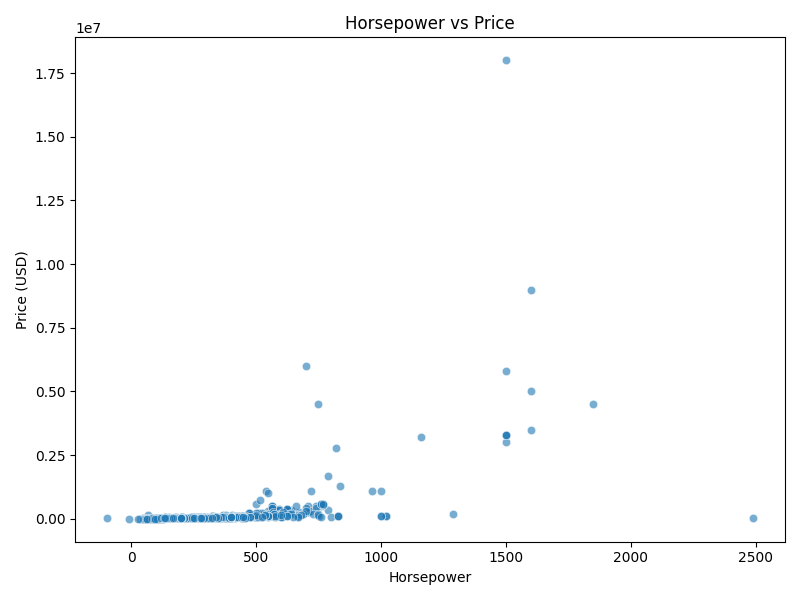
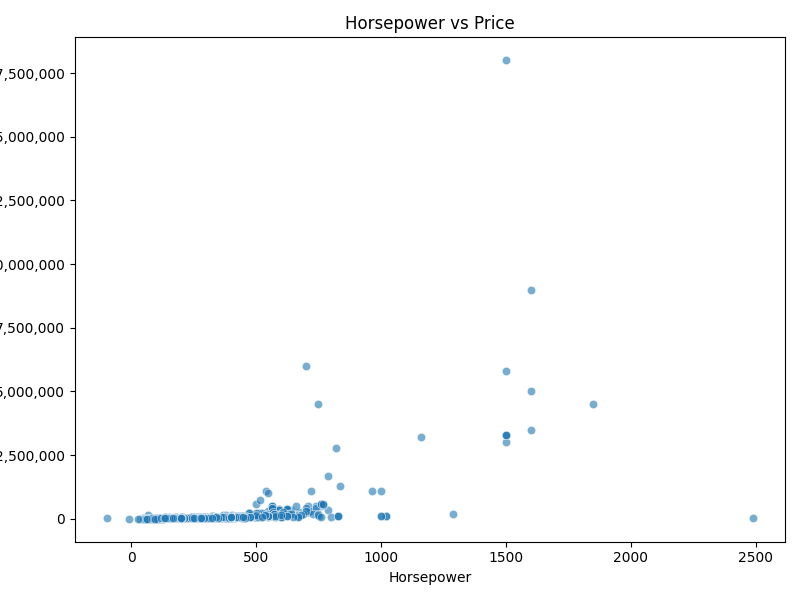
Format EDA axes, use log10 histogram and regenerate figures

diff --git a/src/personal_project/eda_cars.py b/src/personal_project/eda_cars.py
@@ -16,6 +16,7 @@ import numpy as np
 import pandas as pd
 import matplotlib.pyplot as plt
 import seaborn as sns
+from matplotlib.ticker import FuncFormatter
 
 
 DATA_PATH = Path(__file__).resolve().parents[2] / "data" / "Cars Datasets 2025.csv"
@@ -77,12 +78,43 @@ def plot_price_hist(df: pd.DataFrame):
     plt.close()
 
 
+def _format_axis_currency(ax, axis='x', divide=1):
+    """Format axis ticks with thousands separator.
+
+    Parameters:
+    - ax: matplotlib Axes
+    - axis: 'x' or 'y'
+    - divide: divide value for scaling (e.g., 1000 to show thousands)
+    """
+    def _fmt(x, pos):
+        try:
+            val = x / divide
+            if abs(val) >= 1000:
+                # keep integer formatting for large numbers
+                return f"{int(val):,}"
+            # otherwise show without decimals if whole, else 1 decimal
+            if float(val).is_integer():
+                return f"{int(val):,}"
+            return f"{val:,.1f}"
+        except Exception:
+            return f"{x}"
+
+    fmt = FuncFormatter(_fmt)
+    if axis == 'x':
+        ax.xaxis.set_major_formatter(fmt)
+    else:
+        ax.yaxis.set_major_formatter(fmt)
+
+
 def plot_log_price_hist(df: pd.DataFrame):
     plt.figure(figsize=(8, 5))
-    log_price = np.log(df['price'].dropna())
+    # use log10 for easier interpretation and drop non-positive prices
+    price = df['price'].dropna()
+    price = price[price > 0]
+    log_price = np.log10(price)
     sns.histplot(log_price, bins=50)
-    plt.title('Log(Price) distribution')
-    plt.xlabel('log(Price)')
+    plt.title('Log10(Price) distribution')
+    plt.xlabel('log10(Price)')
     plt.tight_layout()
     out = OUT_DIR / 'log_price_hist.png'
     plt.savefig(out)
@@ -97,6 +129,9 @@ def plot_hp_vs_price(df: pd.DataFrame):
     plt.ylabel('Price (USD)')
     plt.tight_layout()
     out = OUT_DIR / 'horsepower_vs_price.png'
+    ax = plt.gca()
+    # format y-axis with thousands separator
+    _format_axis_currency(ax, axis='y', divide=1)
     plt.savefig(out)
     plt.close()
 
@@ -111,6 +146,8 @@ def plot_company_boxplot(df: pd.DataFrame, top_n=10):
     plt.title(f'Price distribution by top {top_n} companies')
     plt.tight_layout()
     out = OUT_DIR / 'company_price_boxplot.png'
+    ax = plt.gca()
+    _format_axis_currency(ax, axis='y', divide=1)
     plt.savefig(out)
     plt.close()
 
